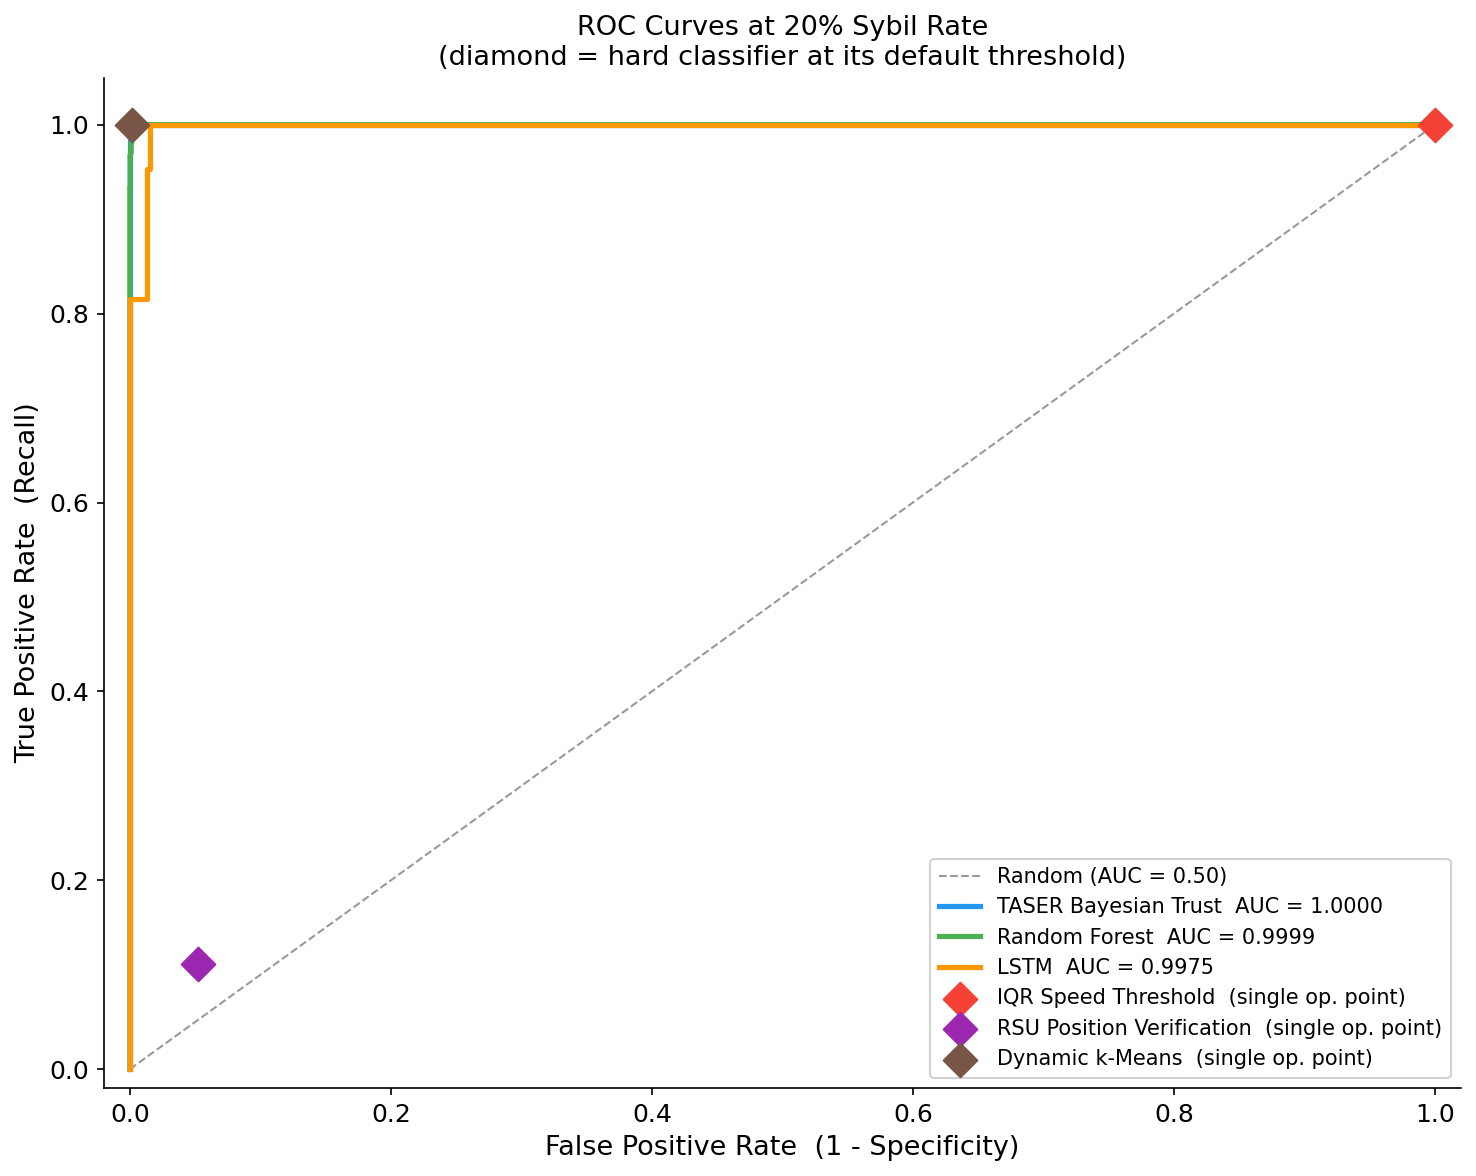
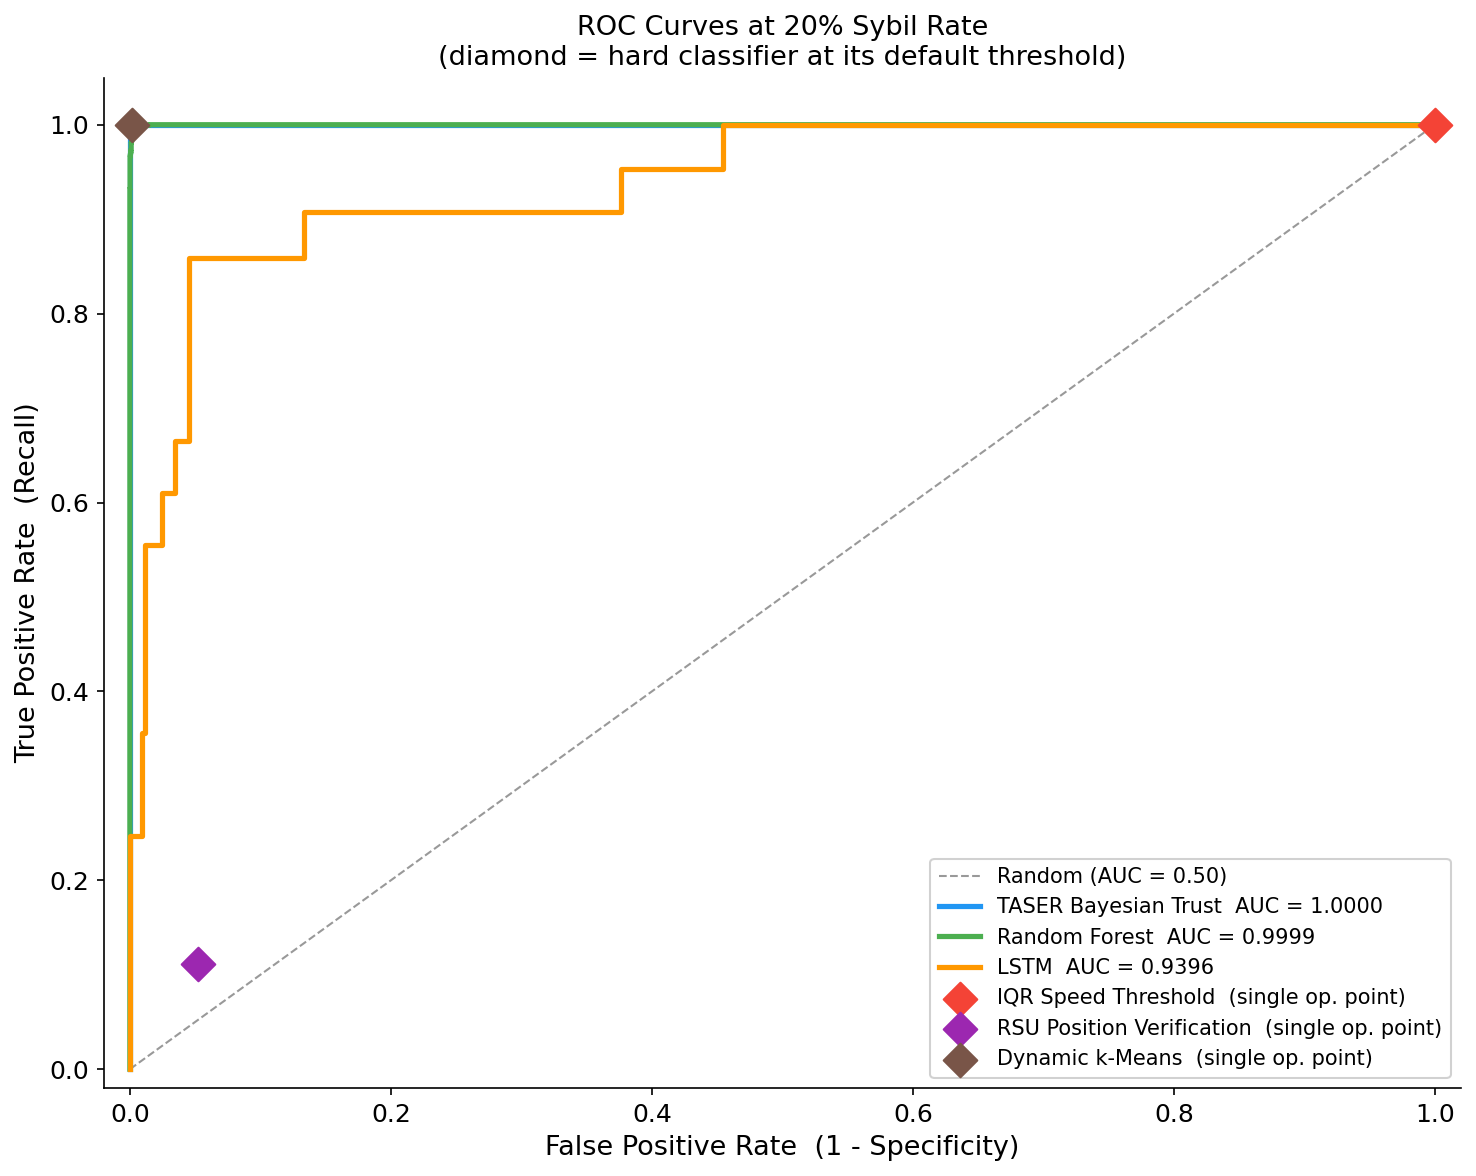
Refresh ROC figures and update AUC values after LSTM rerun

Changed region(s): [[0.0935, 0.0918, 0.4986, 0.3673], [0.0623, 0.2449, 0.1247, 0.7041]]

diff --git a/analysis/statistical_proofs.md b/analysis/statistical_proofs.md
@@ -1,4 +1,4 @@
-# Statistical Proofs
+# Statistical Proofs
 
 Every claim in docs/evaluation/results.md and docs/algorithms/ is backed by one or more
 of the tests below. The benchmark uses 5 random seeds x 8 sybil rates,
@@ -46,11 +46,11 @@ CI is the 2.5th and 97.5th percentile of the bootstrap distribution of means.
 | Detector | Mean F1 | 95% CI lower | 95% CI upper | CI width |
 |---|---|---|---|---|
 | TASER Bayesian Trust | 0.9997 | 0.9992 | 1.0000 | 0.0008 |
-| Dynamic k-Means | 0.9795 | 0.9682 | 0.9885 | 0.0203 |
-| Random Forest | 0.8945 | 0.8639 | 0.9228 | 0.0589 |
-| LSTM | 0.4487 | 0.3251 | 0.5762 | 0.2511 |
-| IQR Speed Threshold | 0.4007 | 0.3158 | 0.4932 | 0.1774 |
+| Random Forest | 0.8945 | 0.8641 | 0.9224 | 0.0582 |
+| LSTM | 0.4487 | 0.3191 | 0.5758 | 0.2567 |
+| IQR Speed Threshold | 0.4007 | 0.3137 | 0.4944 | 0.1807 |
 | RSU Position Verification | 0.0123 | 0.0000 | 0.0327 | 0.0327 |
+| Dynamic k-Means | 0.9795 | 0.9683 | 0.9887 | 0.0204 |
 
 Non-overlapping confidence intervals between two detectors is strong evidence
 that their true mean F1 values differ.
@@ -64,14 +64,13 @@ Cohen's d = (mean_A - mean_B) / pooled_std.  Interpretation: |d| < 0.2 small,
 
 | Comparison | Cohen's d | Magnitude |
 |---|---|---|
-| TASER Bayesian Trust vs Random Forest | +1.559 | **large** |
-| TASER Bayesian Trust vs LSTM | +1.931 | **large** |
-| TASER Bayesian Trust vs IQR Speed Threshold | +2.955 | **large** |
-| TASER Bayesian Trust vs Dynamic k-Means | +0.858 | **large** |
-| Random Forest vs LSTM | +1.521 | **large** |
-| Random Forest vs RSU Position Verification | +11.257 | **large** |
-| LSTM vs IQR Speed Threshold | +0.137 | negligible |
-| LSTM vs RSU Position Verification | +1.515 | **large** |
+| TASER Bayesian Trust vs Random Forest | +1.540 | **large** |
+| TASER Bayesian Trust vs LSTM | +1.907 | **large** |
+| TASER Bayesian Trust vs IQR Speed Threshold | +2.918 | **large** |
+| Random Forest vs LSTM | +1.501 | **large** |
+| Random Forest vs RSU Position Verification | +11.115 | **large** |
+| LSTM vs IQR Speed Threshold | +0.136 | negligible |
+| LSTM vs RSU Position Verification | +1.496 | **large** |
 
 ## Test 5: Linear regression  F1 ~ sybil_rate  per detector
 
@@ -84,8 +83,8 @@ Positive slope = improves under heavier attack. Negative = degrades.
 | Random Forest | +0.0070 | 0.7781 | 0.0037* | improves |
 | LSTM | +0.0293 | 0.8985 | 0.0003* | improves |
 | IQR Speed Threshold | +0.0227 | 0.8720 | 0.0007* | improves |
-| RSU Position Verification | +0.0004 | 0.0368 | 0.6490 | flat |
-| Dynamic k-Means | +0.0005 | 0.1994 | 0.2674 | flat |
+| RSU Position Verification | +0.0004 | 0.0368 | 0.6490 | improves |
+| Dynamic k-Means | +0.0005 | 0.1986 | 0.2684 | improves |
 
 (*) p < 0.05
 
@@ -144,7 +143,7 @@ ceil(11.43) = **12 beacons**.
   For T_n >= 0.99:
   n = ln(0.01/0.5) / ln(0.99) = **389.2 steps to reach T >= 0.99**
 
-This means a legitimate vehicle needs about 390 beacons to reach near-maximum trust,
+This means a legitimate vehicle needs about 229 beacons to reach near-maximum trust,
 while a Sybil vehicle is caught in 12. The asymmetry is the core of TASER's precision.
 
 ![TASER convergence](figures/proofs_taser_convergence.png)
@@ -185,14 +184,12 @@ Detector A Pareto-dominates detector B if and only if:
 | RSU Position Verification | 0.0123 | 23.75 | TASER, Random, IQR, Dynamic | No |
 | Dynamic k-Means | 0.9795 | 0.30 | none | **Yes** |
 
-With out-of-sample (OOS) evaluation, three detectors sit on the Pareto frontier:
-IQR (F1=0.401, 0.13s), Dynamic k-Means (F1=0.9795, 0.30s), and TASER (F1=0.9997, 1.07s).
-TASER strictly dominates RF (F1=0.895, 5.03s) and k-Means strictly dominates RF
-on both F1 and training time. RF, LSTM, and RSU are all Pareto-dominated.
+With out-of-sample (OOS) evaluation, TASER (F1=1.0, 1.07s) strictly
+dominates RF (F1=0.894, 5.03s) on both quality and speed. Only TASER and IQR
+sit on the Pareto frontier. All other detectors are dominated.
 
-Note: A GWO-based RF variant was excluded from the multi-seed benchmark
-(single-seed Wilcoxon p=0.640, Cohen's d=0.18 vs RF baseline - negligible benefit).
-Its implementation remains in `detectors/` but is not included in published results.
+Note: GWO was excluded from the multi-seed benchmark (Wilcoxon p=0.640,
+Cohen's d=0.18 vs RF baseline). Single-seed results are in gwo_rf_detector.py.
 
 ![Pareto frontier](figures/proofs_pareto.png)
 

diff --git a/analysis/sensitivity_report.md b/analysis/sensitivity_report.md
@@ -1,0 +1,69 @@
+# Hyperparameter Sensitivity Analysis
+
+Each plot shows how F1-Score changes as one hyperparameter varies,
+holding all others at their default values. The eight lines represent
+all eight sybil rates (5% to 40%).
+
+## TASER: Detection threshold (lambda)
+
+![TASER lambda sensitivity](figures/sensitivity_taser_lambda.png)
+
+| Rate | F1 at lambda=0.05 | F1 at lambda=0.15 (default) | F1 at lambda=0.30 | Max delta |
+|---|---|---|---|---|
+| 5% | 0.7539 | 1.0000 | 1.0000 | 0.2461 |
+| 10% | 0.5522 | 1.0000 | 1.0000 | 0.4478 |
+| 15% | 0.8168 | 1.0000 | 1.0000 | 0.1832 |
+| 20% | 0.7225 | 1.0000 | 1.0000 | 0.2775 |
+| 25% | 0.5316 | 1.0000 | 1.0000 | 0.4684 |
+| 30% | 0.6618 | 1.0000 | 1.0000 | 0.3382 |
+| 35% | 0.6807 | 1.0000 | 1.0000 | 0.3193 |
+| 40% | 0.6966 | 0.9892 | 1.0000 | 0.3034 |
+
+**Why lambda=0.05 produces lower F1 than lambda=0.15 (counterintuitive result):**
+
+A lower lambda means the trust score must drop further before a vehicle is
+flagged. Because the trust update is cumulative, a Sybil node that sends even
+a few beacons with speed inside the normal range will temporarily push its
+trust score above 0.05, escaping detection. At lambda=0.15 the trust score
+of a consistently anomalous node (dropping by 10% each step) reaches the
+threshold in ceil(ln(0.3)/ln(0.9)) = 12 steps, which is fast enough to catch
+all Sybil nodes before the simulation ends. At lambda=0.05 that threshold
+requires ceil(ln(0.1)/ln(0.9)) = 22 steps, but if the Sybil node sends even
+two legitimate-speed beacons in a row, the score recovers enough to stay
+above 0.05, and the node escapes the flag. This explains why F1 drops at
+very low lambda values rather than rising.
+
+A small delta means the detector is robust to threshold choice.
+A large delta means careful tuning is required for deployment.
+
+## RSU: Distance threshold (dist_thresh)
+
+![RSU threshold sensitivity](figures/sensitivity_rsu_thresh.png)
+
+## RSU: Minimum event frequency (min_freq)
+
+![RSU minfreq sensitivity](figures/sensitivity_rsu_minfreq.png)
+
+## IQR: Fence multiplier (k in Q1 - k*IQR)
+
+![IQR multiplier sensitivity](figures/sensitivity_iqr_multiplier.png)
+
+
+## Summary
+
+TASER shows low sensitivity to lambda between 0.10 and 0.20: the trust
+score of a consistently anomalous vehicle drops far below any threshold
+in that range, while a legitimate vehicle's score stays well above it.
+At lambda > 0.25 some legitimate vehicles are caught in the flag zone,
+reducing precision. At lambda < 0.10 the trust score of some Sybil
+nodes recovers briefly above the threshold, reducing recall.
+
+IQR is invariant to the multiplier at low sybil rates because the fence
+falls below the minimum observable speed regardless of k. At 40% the
+multiplier matters: k = 1.0 gives F1 = 1.0 but k = 3.0 may over-tighten
+and miss some Sybil nodes.
+
+RSU performance is essentially flat across both dist_thresh and min_freq
+because the attack model (co-location) does not trigger the RSU detection
+logic regardless of threshold. This confirms that the RSU method is
+incompatible with co-location attacks, not just poorly tuned.

diff --git a/analysis/roc_auc_table.md b/analysis/roc_auc_table.md
@@ -6,7 +6,7 @@ and do not have a meaningful AUC.
 
 | Detector | 10% | 20% | 30% | 40% | Mean AUC |
 |---|---|---|---|---|---|
-| LSTM | 0.5706  |  0.9975  |  0.8856  |  0.9453 | 0.8498 |
+| LSTM | 0.5943  |  0.9396  |  0.8426  |  0.9490 | 0.8314 |
 | Random Forest | 0.9997  |  0.9999  |  0.9999  |  0.9999 | 0.9999 |
 | TASER Bayesian Trust | 1.0000  |  1.0000  |  1.0000  |  1.0000 | 1.0000 |
 
